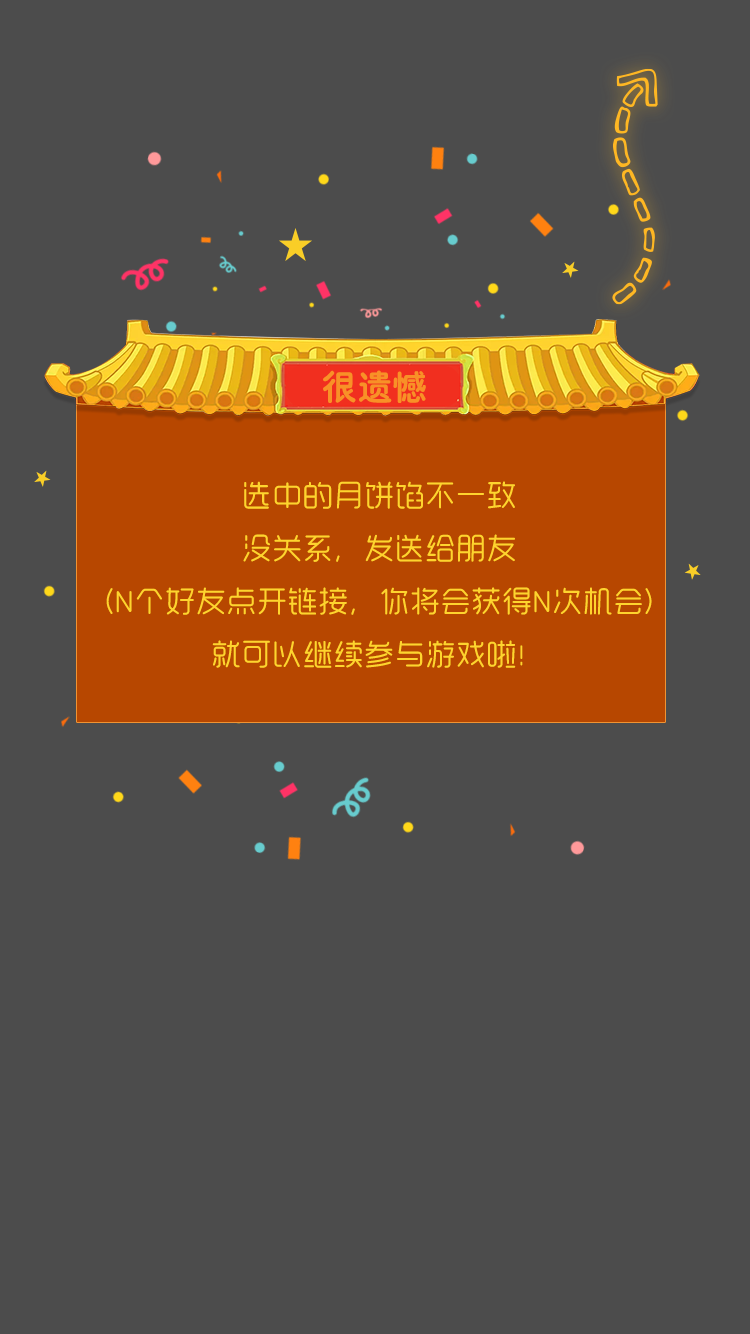
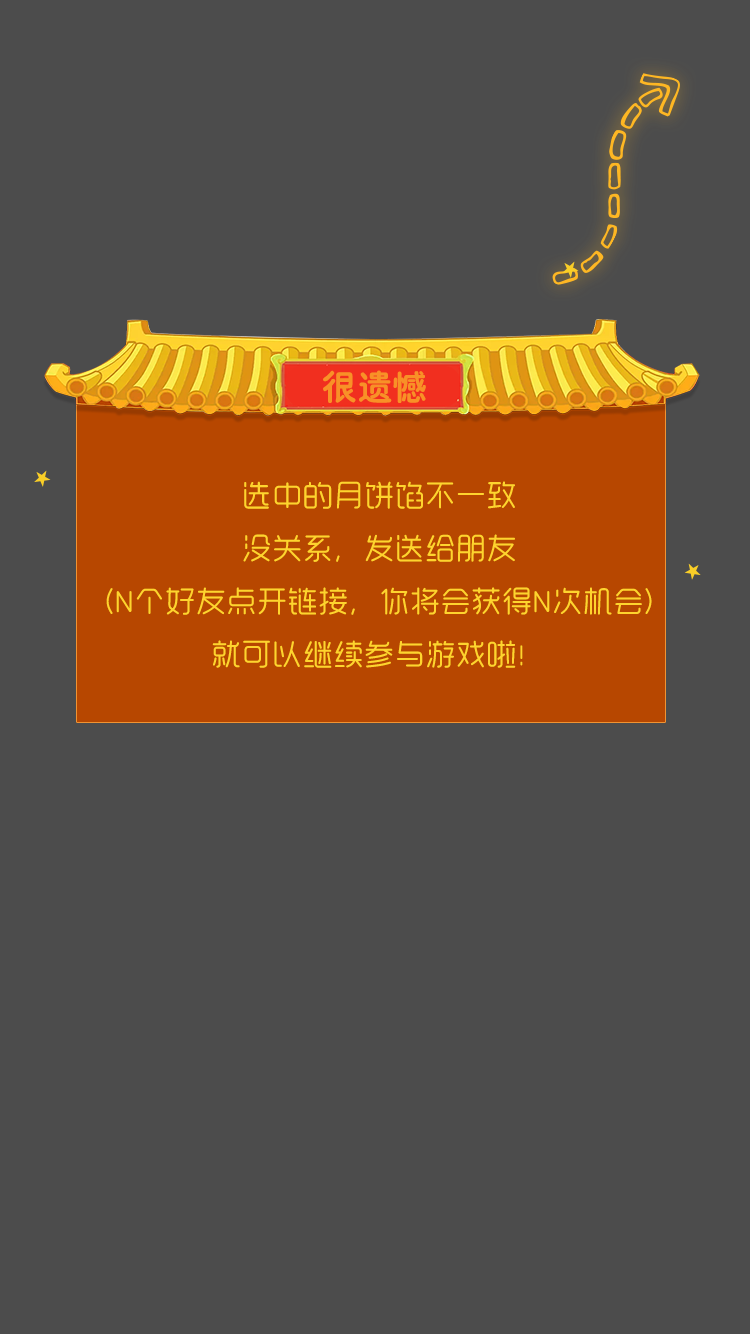
1.0.71

diff --git a/docs/style/default.css b/docs/style/default.css
@@ -1,4 +1,5 @@
-html, body {
+html,
+body {
   height: 100%
 }
 
@@ -7,12 +8,29 @@ body {
   color: #000
 }
 
-body, p, ul, li, ol, h1, h2, h3, h4, h5, h6, dl, dt, dd, form, iframe {
+body,
+p,
+ul,
+li,
+ol,
+h1,
+h2,
+h3,
+h4,
+h5,
+h6,
+dl,
+dt,
+dd,
+form,
+iframe {
   margin: 0;
   padding: 0
 }
 
-ul, li, ol {
+ul,
+li,
+ol {
   list-style: none outside none
 }
 
@@ -22,7 +40,8 @@ img {
   width: 100%
 }
 
-input, select {
+input,
+select {
   vertical-align: middle
 }
 
@@ -57,7 +76,8 @@ a:visited {
   color: #333
 }
 
-a:hover, a:active {
+a:hover,
+a:active {
   color: #999
 }
 
@@ -551,7 +571,7 @@ body {
   height: 436px;
   margin: 0 auto;
   position: relative;
-  top: 396px;
+  top: 255px;
   z-index: 500
 }
 
@@ -781,7 +801,7 @@ body {
 
 .chooseOther.active:after {
   content: '';
-  background-color: rgb(253, 216, 22);
+  background-color: #fdd816;
   border-radius: 50%;
   background-size: 100% 100%;
   font-size: 14px;
@@ -805,7 +825,7 @@ body {
 
 .chooseZao.active:after {
   content: '';
-  background-color: rgb(253, 216, 22);
+  background-color: #fdd816;
   border-radius: 50%;
   background-size: 100% 100%;
   font-size: 14px;
@@ -838,7 +858,7 @@ body {
 
 .chooseLotus.active:after {
   content: '';
-  background-color: rgb(253, 216, 22);
+  background-color: #fdd816;
   border-radius: 50%;
   background-size: 100% 100%;
   font-size: 14px;
@@ -901,7 +921,7 @@ body {
 
 .chooseIce.active:after {
   content: '';
-  background-color: rgb(253, 216, 22);
+  background-color: #fdd816;
   border-radius: 50%;
   background-size: 100% 100%;
   font-size: 14px;
@@ -926,7 +946,7 @@ body {
 
 .chooseFruits.active:after {
   content: '';
-  background-color: rgb(253, 216, 22);
+  background-color: #fdd816;
   border-radius: 50%;
   background-size: 100% 100%;
   font-size: 14px;
@@ -951,7 +971,7 @@ body {
 
 .chooseXian.active:after {
   content: '';
-  background-color: rgb(253, 216, 22);
+  background-color: #fdd816;
   border-radius: 50%;
   background-size: 100% 100%;
   font-size: 14px;
@@ -976,7 +996,7 @@ body {
 
 .chooseEggB.active:after {
   content: '';
-  background-color: rgb(253, 216, 22);
+  background-color: #fdd816;
   border-radius: 50%;
   background-size: 100% 100%;
   font-size: 14px;
@@ -1035,7 +1055,7 @@ body {
 
 .chooseKernel.active:after {
   content: '';
-  background-color: rgb(253, 216, 22);
+  background-color: #fdd816;
   border-radius: 50%;
   background-size: 100% 100%;
   font-size: 14px;
@@ -1163,12 +1183,12 @@ body {
   left: 539px;
   top: 337px;
   width: 149px;
-  height: 194px;
+  height: 194px
 }
 
 .choosesweetened.active:after {
   content: '';
-  background-color: rgb(253, 216, 22);
+  background-color: #fdd816;
   border-radius: 50%;
   background-size: 100% 100%;
   font-size: 14px;
@@ -1218,7 +1238,8 @@ body {
   left: 58px;
   top: 272px;
   height: 23px;
-  width: 633px
+  width: 633px;
+  z-index: 20
 }
 
 .chooseBing {
@@ -1260,16 +1281,12 @@ body {
   top: 462px;
   width: 387px;
   height: 413px;
-  z-index: 158;
+  z-index: 158
 }
 
 .exclPeople span {
-  /*position: absolute;*/
-  /*left: 133px;*/
-  /*top: 210px;*/
-  /*letter-spacing: 2px;*/
   font-size: 24px;
-  color: #b86a34;
+  color: #b86a34
 }
 
 .exclButton {
@@ -1592,7 +1609,8 @@ ul {
   height: 143px
 }
 
-.front, .back {
+.front,
+.back {
   backface-visibility: hidden;
   transition: 1s;
   width: 145px;
@@ -1628,7 +1646,7 @@ ul {
   left: 175px;
   top: 370px;
   width: 408px;
-  height: 23px;
+  height: 23px
 }
 
 .lotteryLove {
@@ -1978,7 +1996,7 @@ ul {
   top: 0;
   width: 750px;
   height: 1334px;
-  z-index: 3;
+  z-index: 2000;
   display: none
 }
 
@@ -1989,7 +2007,7 @@ ul {
   top: 0;
   width: 750px;
   height: 1334px;
-  z-index: 3;
+  z-index: 2000;
   display: none
 }
 
@@ -2010,7 +2028,7 @@ ul {
   top: 0;
   width: 100%;
   height: 100%;
-  background: rgba(0,0,0,0.5);
+  background: rgba(0, 0, 0, 0.5);
   display: none
 }
 
@@ -2021,9 +2039,8 @@ ul {
   top: 73px;
   width: 671px;
   height: 857px;
-  z-index: 6;
+  z-index: 6
 }
-
 
 .UserName {
   position: absolute;
@@ -2070,11 +2087,11 @@ ul {
   top: 843px;
   width: 380px;
   height: 89px;
-  z-index: 50;
+  z-index: 50
 }
 
-.poetry.active{
-  display: none;
+.poetry.active {
+  display: none
 }
 
 .share {
@@ -2085,15 +2102,15 @@ ul {
   height: 121.673px;
   margin-left: -37px;
   margin-bottom: 250px;
-  display: none;
+  display: none
 }
 
-.share.active{
-  display: block;
+.share.active {
+  display: block
 }
 
-.shareNow{
-  width:600px;
+.shareNow {
+  width: 600px
 }
 
 .share1 {
@@ -2102,7 +2119,7 @@ ul {
   background-size: 100% 100%;
   height: 45px;
   width: 443px;
-  margin-bottom: 30px;
+  margin-bottom: 30px
 }
 
 .share2 {
@@ -2111,7 +2128,7 @@ ul {
   background-size: 100% 100%;
   height: 45px;
   width: 88px;
-  float: left;
+  float: left
 }
 
 .share3 {
@@ -2120,7 +2137,7 @@ ul {
   background-size: 100% 100%;
   height: 45px;
   width: 312px;
-  float: left;
+  float: left
 }
 
 .share4 {
@@ -2128,7 +2145,7 @@ ul {
   height: 45px;
   float: left;
   font-size: 40px;
-  padding: 6px;
+  padding: 6px
 }
 
 .exclPeople div {
@@ -2136,22 +2153,46 @@ ul {
   color: #af5d2b;
   padding-left: 125px;
   padding-top: 13px;
-  letter-spacing: 2px;
+  letter-spacing: 2px
 }
 
 .exclPeople div:nth-child(1) {
-  padding-top: 171px;
+  padding-top: 171px
 }
 
 .exclPeople div:nth-child(2) {
-  padding-left: 90px;
+  padding-left: 90px
 }
 
 .exclPeople span {
   font-size: 30px;
   padding: 0 2px;
-  color: #b86a34;
+  color: #b86a34
 }
 
-.music_btn{position:absolute;background:url("../images/musicBtn.png") 50% 50% no-repeat ;padding:40px;z-index: 10001;right:0;top:0;border-radius:500px;}
-.music_btn.off{background-image:url("../images/musicBtnOff.png")}
+.music_btn {
+  position: absolute;
+  background: url("../images/musicBtn.png") 50% 50% no-repeat;
+  padding: 40px;
+  z-index: 1000;
+  left: 0;
+  top: 0;
+  border-radius: 500px
+}
+
+.music_btn.off {
+  background-image: url("../images/musicBtnOff.png")
+}
+
+.endPageImg {
+  position: absolute;
+  left: 213px;
+  bottom: 150px;
+  width: 302px;
+  height: 191px;
+}
+
+.endPageImg img {
+  height: 100%;
+  width: 100%;
+}
